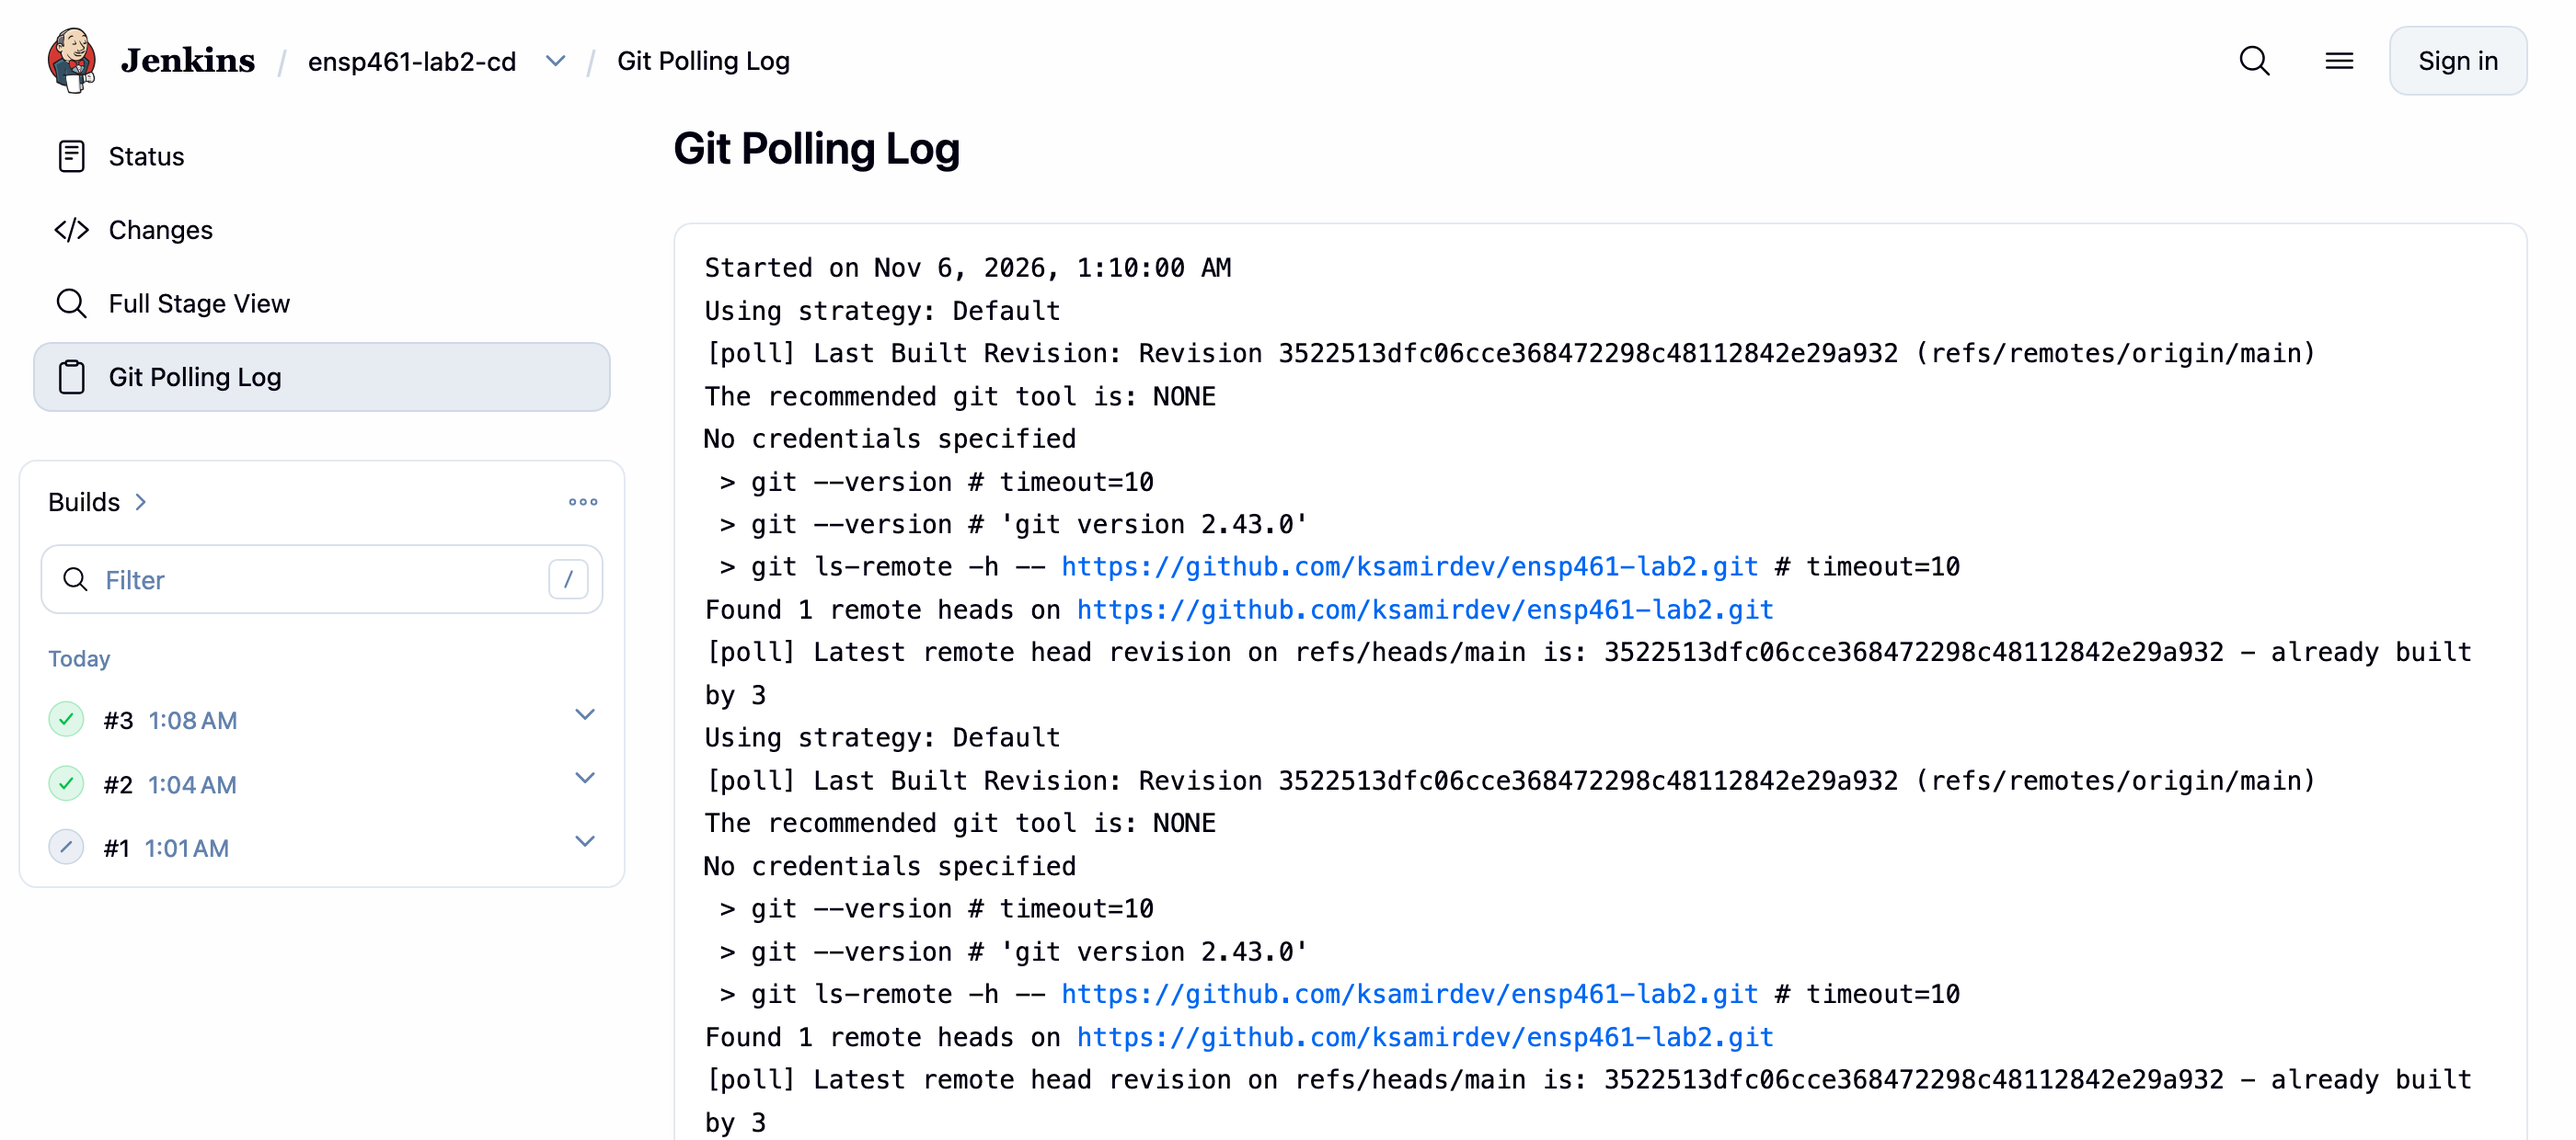
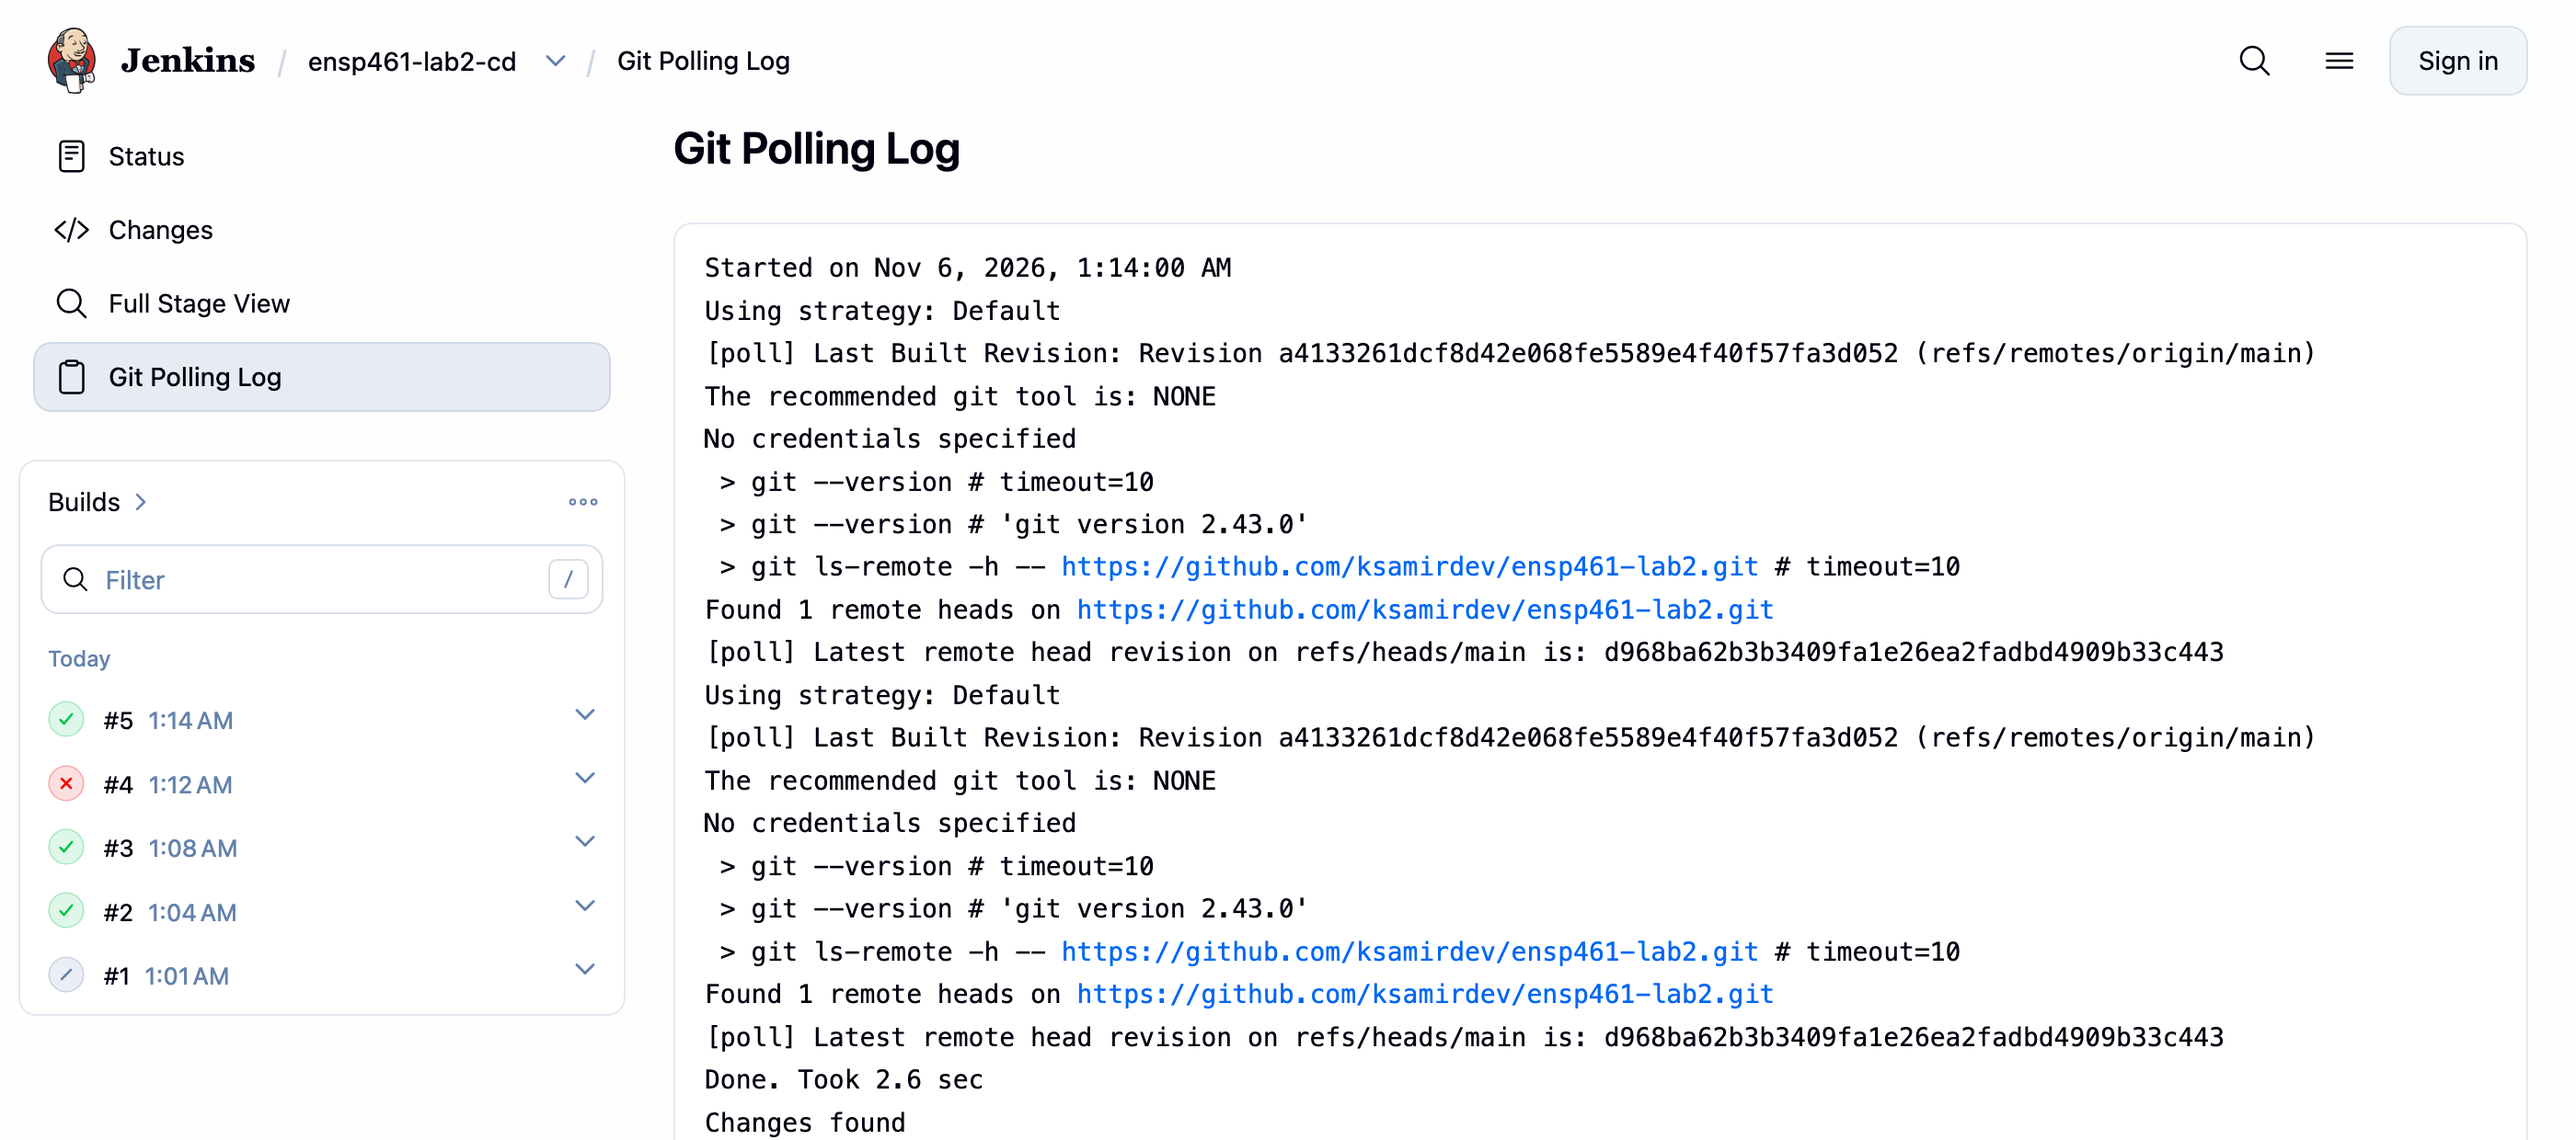
Record Jenkins build 5 and refresh Jenkins screenshots
Build 5 passed with the drain-aware smoke test: one revision, 2.1.5 live.

diff --git a/scripts/shots.py b/scripts/shots.py
@@ -45,6 +45,8 @@ SHOTS = {
     "q7-setup": ("q7-setup.log", [r"usermod", r"kube/config", r"JAVA_OPTS", r"init.groovy.d", r"systemctl restart", r"api/json", r"curl -sI"]),
     "q7-build2": ("q7-build2.log", [r"api/json", r"consoleText"], r"^build |Started by|Commit message|\[Pipeline\] \{ \(|passed|docker (build|push)|kubectl (apply|set image)|successfully rolled|BODY=|Deployed|Finished"),
     "q7-build3": ("q7-build3.log", [r"api/json", r"rollout history", r"get deployment", r"get pods", r"health", r"tags/list"]),
+    "q7-build4": ("q7-build4.log", [r"api/json", r"consoleText", r"rollout history"], r"^build |Started by|Commit message|\[Pipeline\] \{ \(|kubectl (apply|rollout)|sed s#|successfully rolled|BODY=|rolling back|Finished|REVISION|^\d+ +"),
+    "q7-build5": ("q7-build5.log", [r"api/json", r"consoleText", r"rollout history", r"health"], r"^build |Started by|Commit message|\[Pipeline\] \{ \(|sed s#|successfully rolled|^\[[^]]+\] \{\"status|Deployed|Finished|REVISION|^\d+ +|^\{"),
 }
 
 
